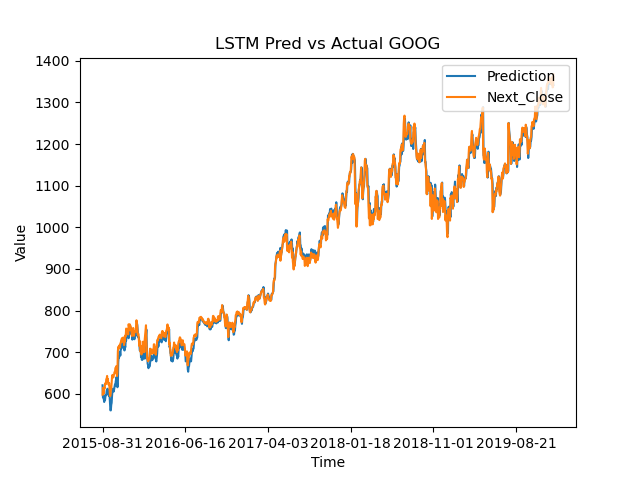
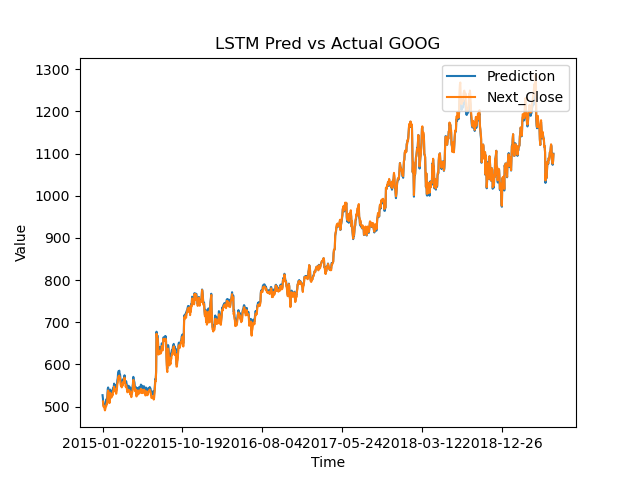
Fixed LSTM unshifted values

diff --git a/main.py b/main.py
@@ -4,44 +4,29 @@ from sklearn.model_selection import train_test_split, GridSearchCV
 from sklearn.metrics import mean_absolute_error, mean_absolute_percentage_error
 import pandas as pd
 import config
-from data_preprocessing import training_vector_creation, inference_vector_creation
-import yaml
+from data_preprocessing import training_vector_creation
 from data_serializer import save_pickle, load_pickle
-from linear_inference import linear_results
+from linear_pipeline import linear_results, linear_training
 from lstm import lstm_trainer
-from lstm.lstm_inference import lstm_results
-
-def inference():
-    for company_name in config.company_names:
-        linear_results(company_name)
-        data_lstm = pd.read_csv(f"data/training_data/{company_name}_data.csv", index_col=0)
-        lstm_results(company_name, data_lstm)
+from lstm.lstm_pipeline import lstm_results
+from sentiment_analysis import get_historical_sentiment
+from stock_prices_acquisition import stock_prices
 
 
 def train_models():
-    try:
-        with open('hyperparameter.yaml', 'r') as file:
-            params_list = yaml.safe_load(file)
-    except Exception as e:
-        print(e)
+	for company_name in config.company_names:
+		training_vector_creation(company_name)
+		df = pd.read_csv(f"data/training_data/{company_name}_data.csv", index_col=0)
+		# linear_training(df, company_name)
+		#train lstm
+		train_data = df.iloc[:int(df.shape[0] * 0.9)] # get 90% of data for training/validation
+		# lstm_trainer.train(train_data, company_name)
+		lstm_results(company_name, train_data, "train")
+		test_data = df.iloc[int(df.shape[0] * 0.9):] # get 10% of data for prediction:)
+		lstm_results(company_name, test_data, "test")
 
-    for company_name in config.company_names:
-        training_vector_creation(company_name)
-        df = pd.read_csv(f"data/training_data/{company_name}_data.csv", index_col=0)
-        # print(f"Correlation:\n {df.corr()}")
-        for model, param in zip([LinearRegression()],config.models):
-            model = GridSearchCV(model, params_list[param])
-            x_train, x_test, y_train, y_test = train_test_split(df[["Sentiment", "Close"]], df["Next_Close"],
-                                                                train_size=0.75, random_state=11)
-            model.fit(x_train, y_train)
-            predictions = model.predict(x_test)
-
-            save_pickle(company_name, param, model.best_estimator_, "models")
-
-        #train lstm
-        # lstm_trainer.train(df,company_name)
-        lstm_results(company_name,df)
 
 if __name__ == "__main__":
-    # train_models()
-    inference()
+	# get_historical_sentiment()
+	# stock_prices()
+	train_models()

diff --git a/lstm/lstm_pipeline.py b/lstm/lstm_pipeline.py
@@ -17,9 +17,10 @@ class TimeseriesValues(Dataset):
 		return np.array(self.data[index])
 
 
-def lstm_results(company, data):
+def lstm_results(company, data, mode):
 	"""
 	Feeds data to lstm model and returns the prediction
+	:param mode: chart type
 	:param company: name of company
 	:param data: company data
 	:return: predictions
@@ -27,7 +28,7 @@ def lstm_results(company, data):
 	feature_scaler = load_pickle(company, "feature_scaler", "scalers")
 	label_scaler = load_pickle(company, "label_scaler", "scalers")
 	model = load_pickle(company, "lstm", "models")
-	true_next_close = pd.DataFrame(data['Next_Close'])
+	true_next_close = pd.DataFrame(data['Next_Close']).shift(1)
 	data = data.drop('Next_Close', axis=1)
 
 	index = data.index
@@ -46,7 +47,5 @@ def lstm_results(company, data):
 	true_next_close.plot(kind="line", y="Next_Close", ax=ax)
 	ax.set(xlabel='Time', ylabel='Value', title=f'LSTM Pred vs Actual {company}')
 	plt.legend(loc="upper right")
-	plt.savefig(f"charts/training_charts/lstm_pred_{company}.png")
+	plt.savefig(f"charts/{mode}/lstm_pred_{company}.png")
 	# plt.show()
-
-	print(f"{company} predictions= {predictions}")
